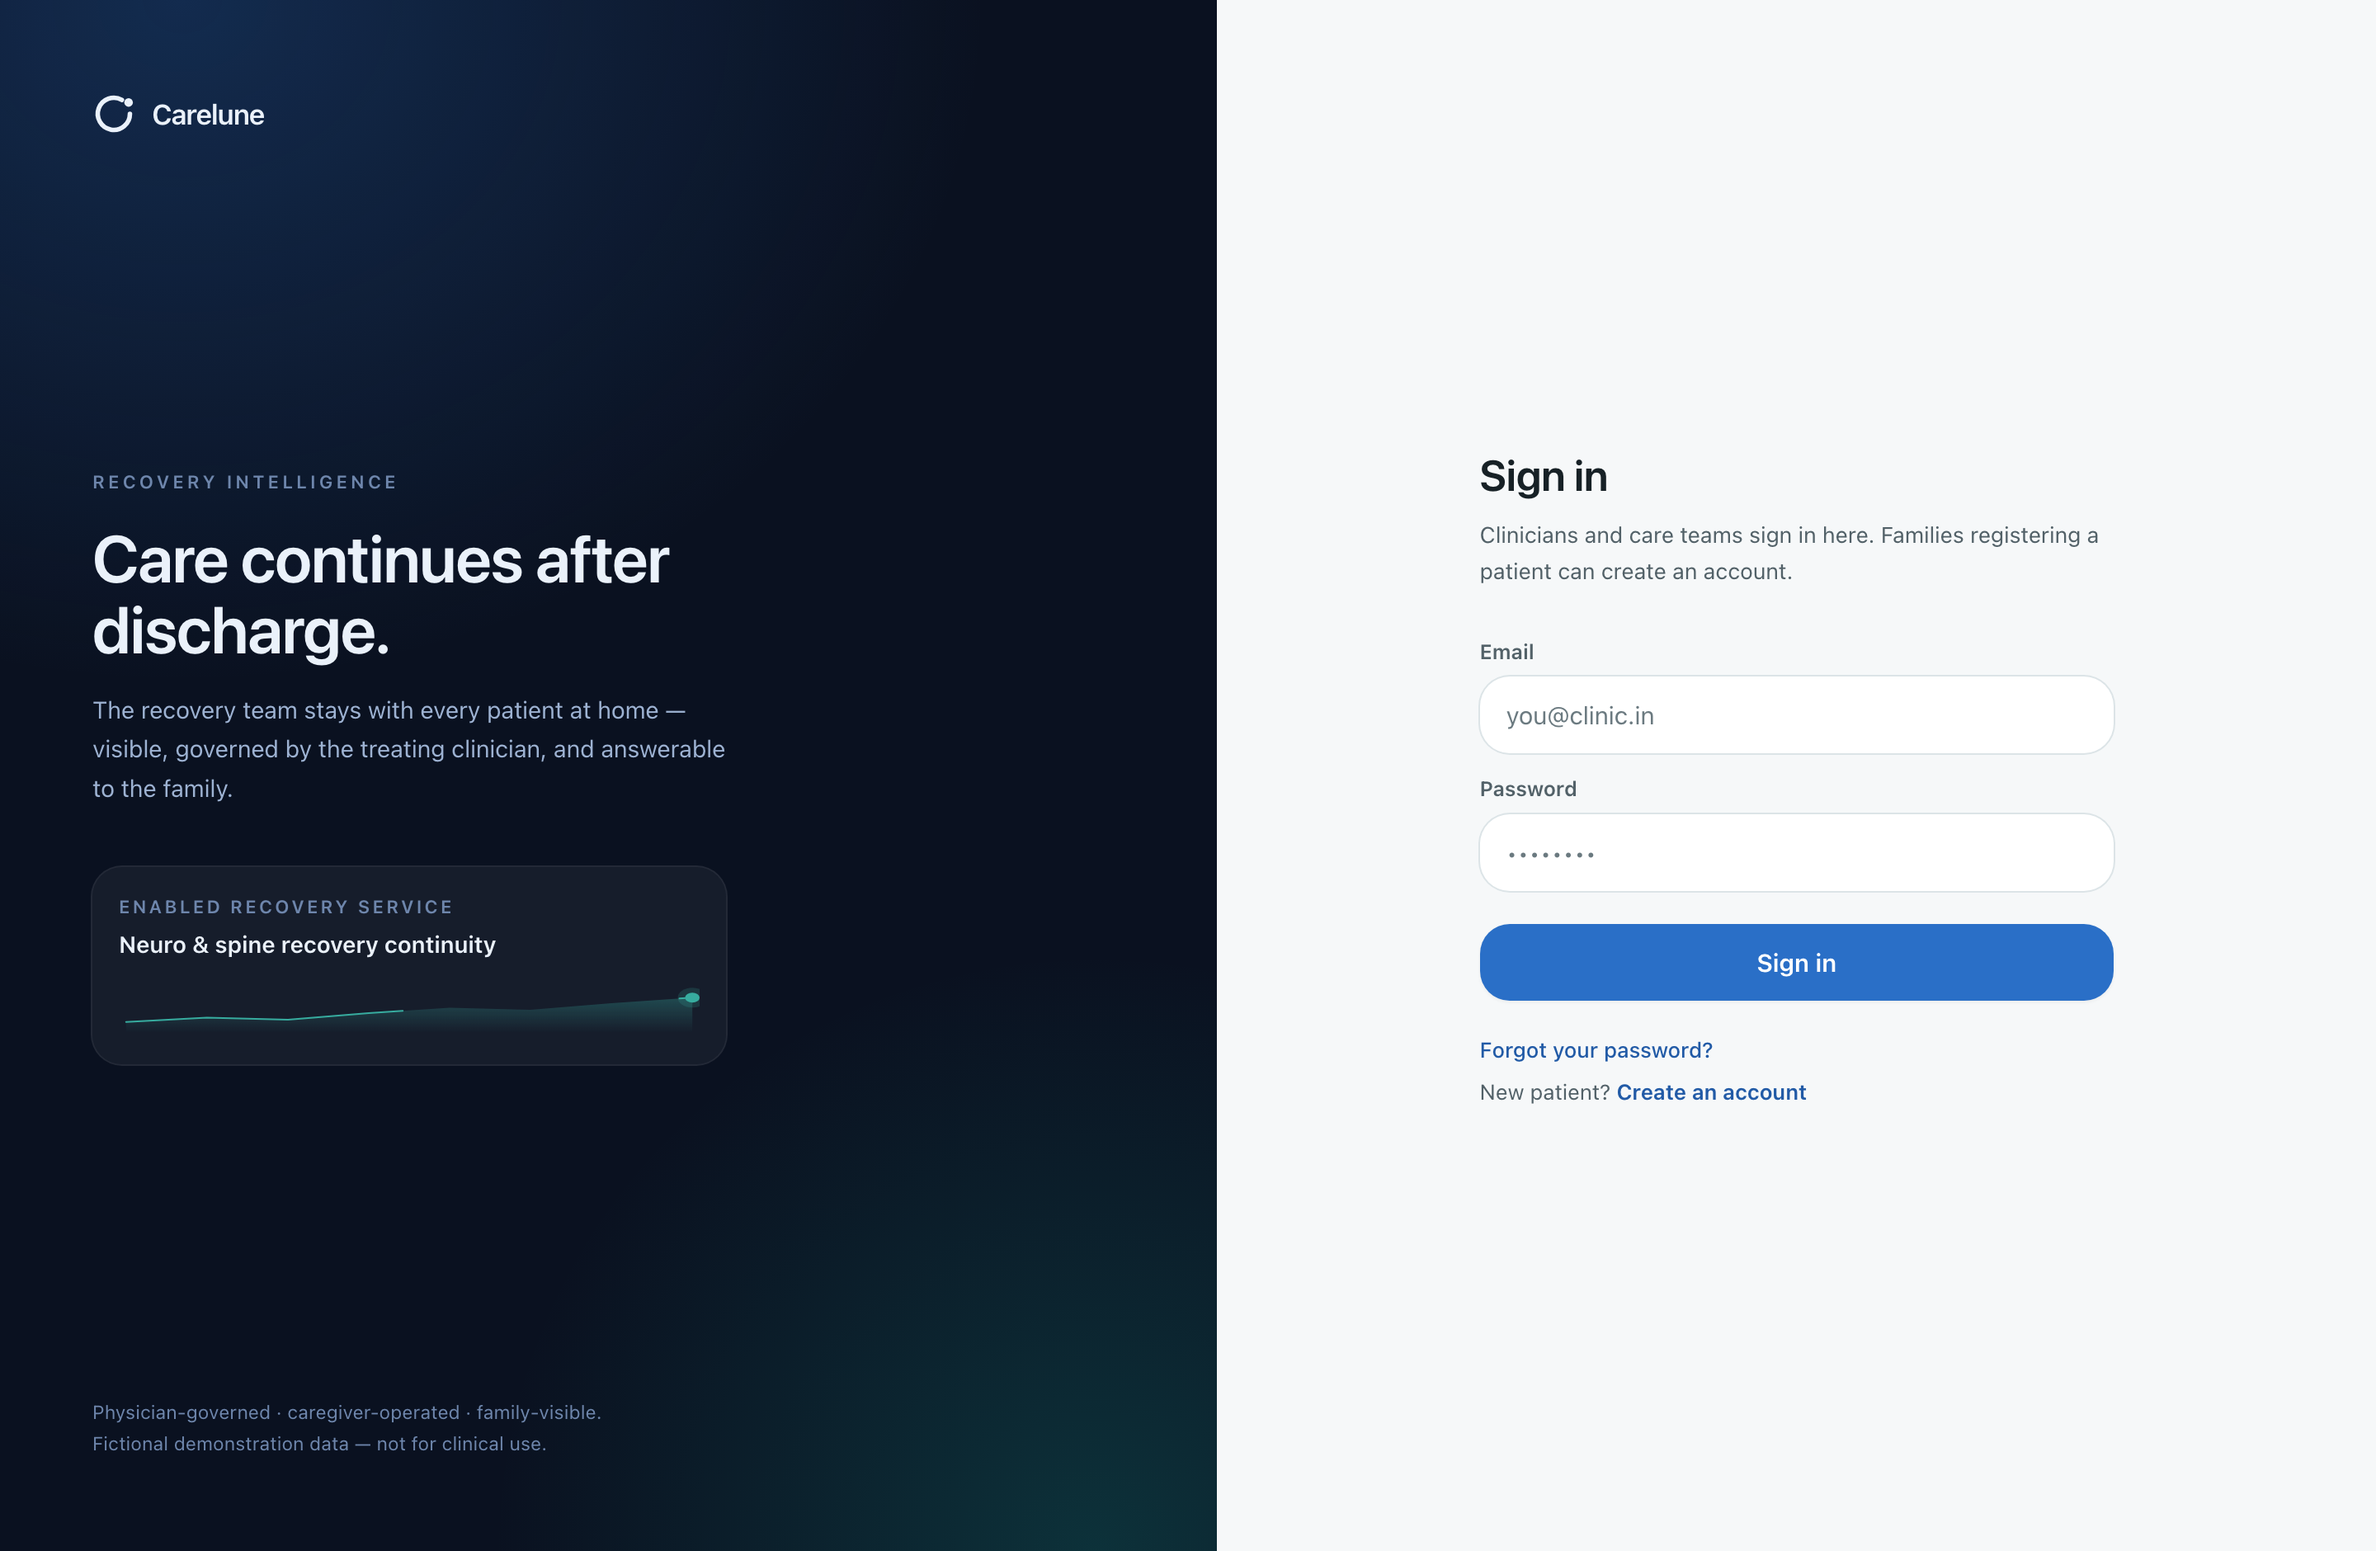
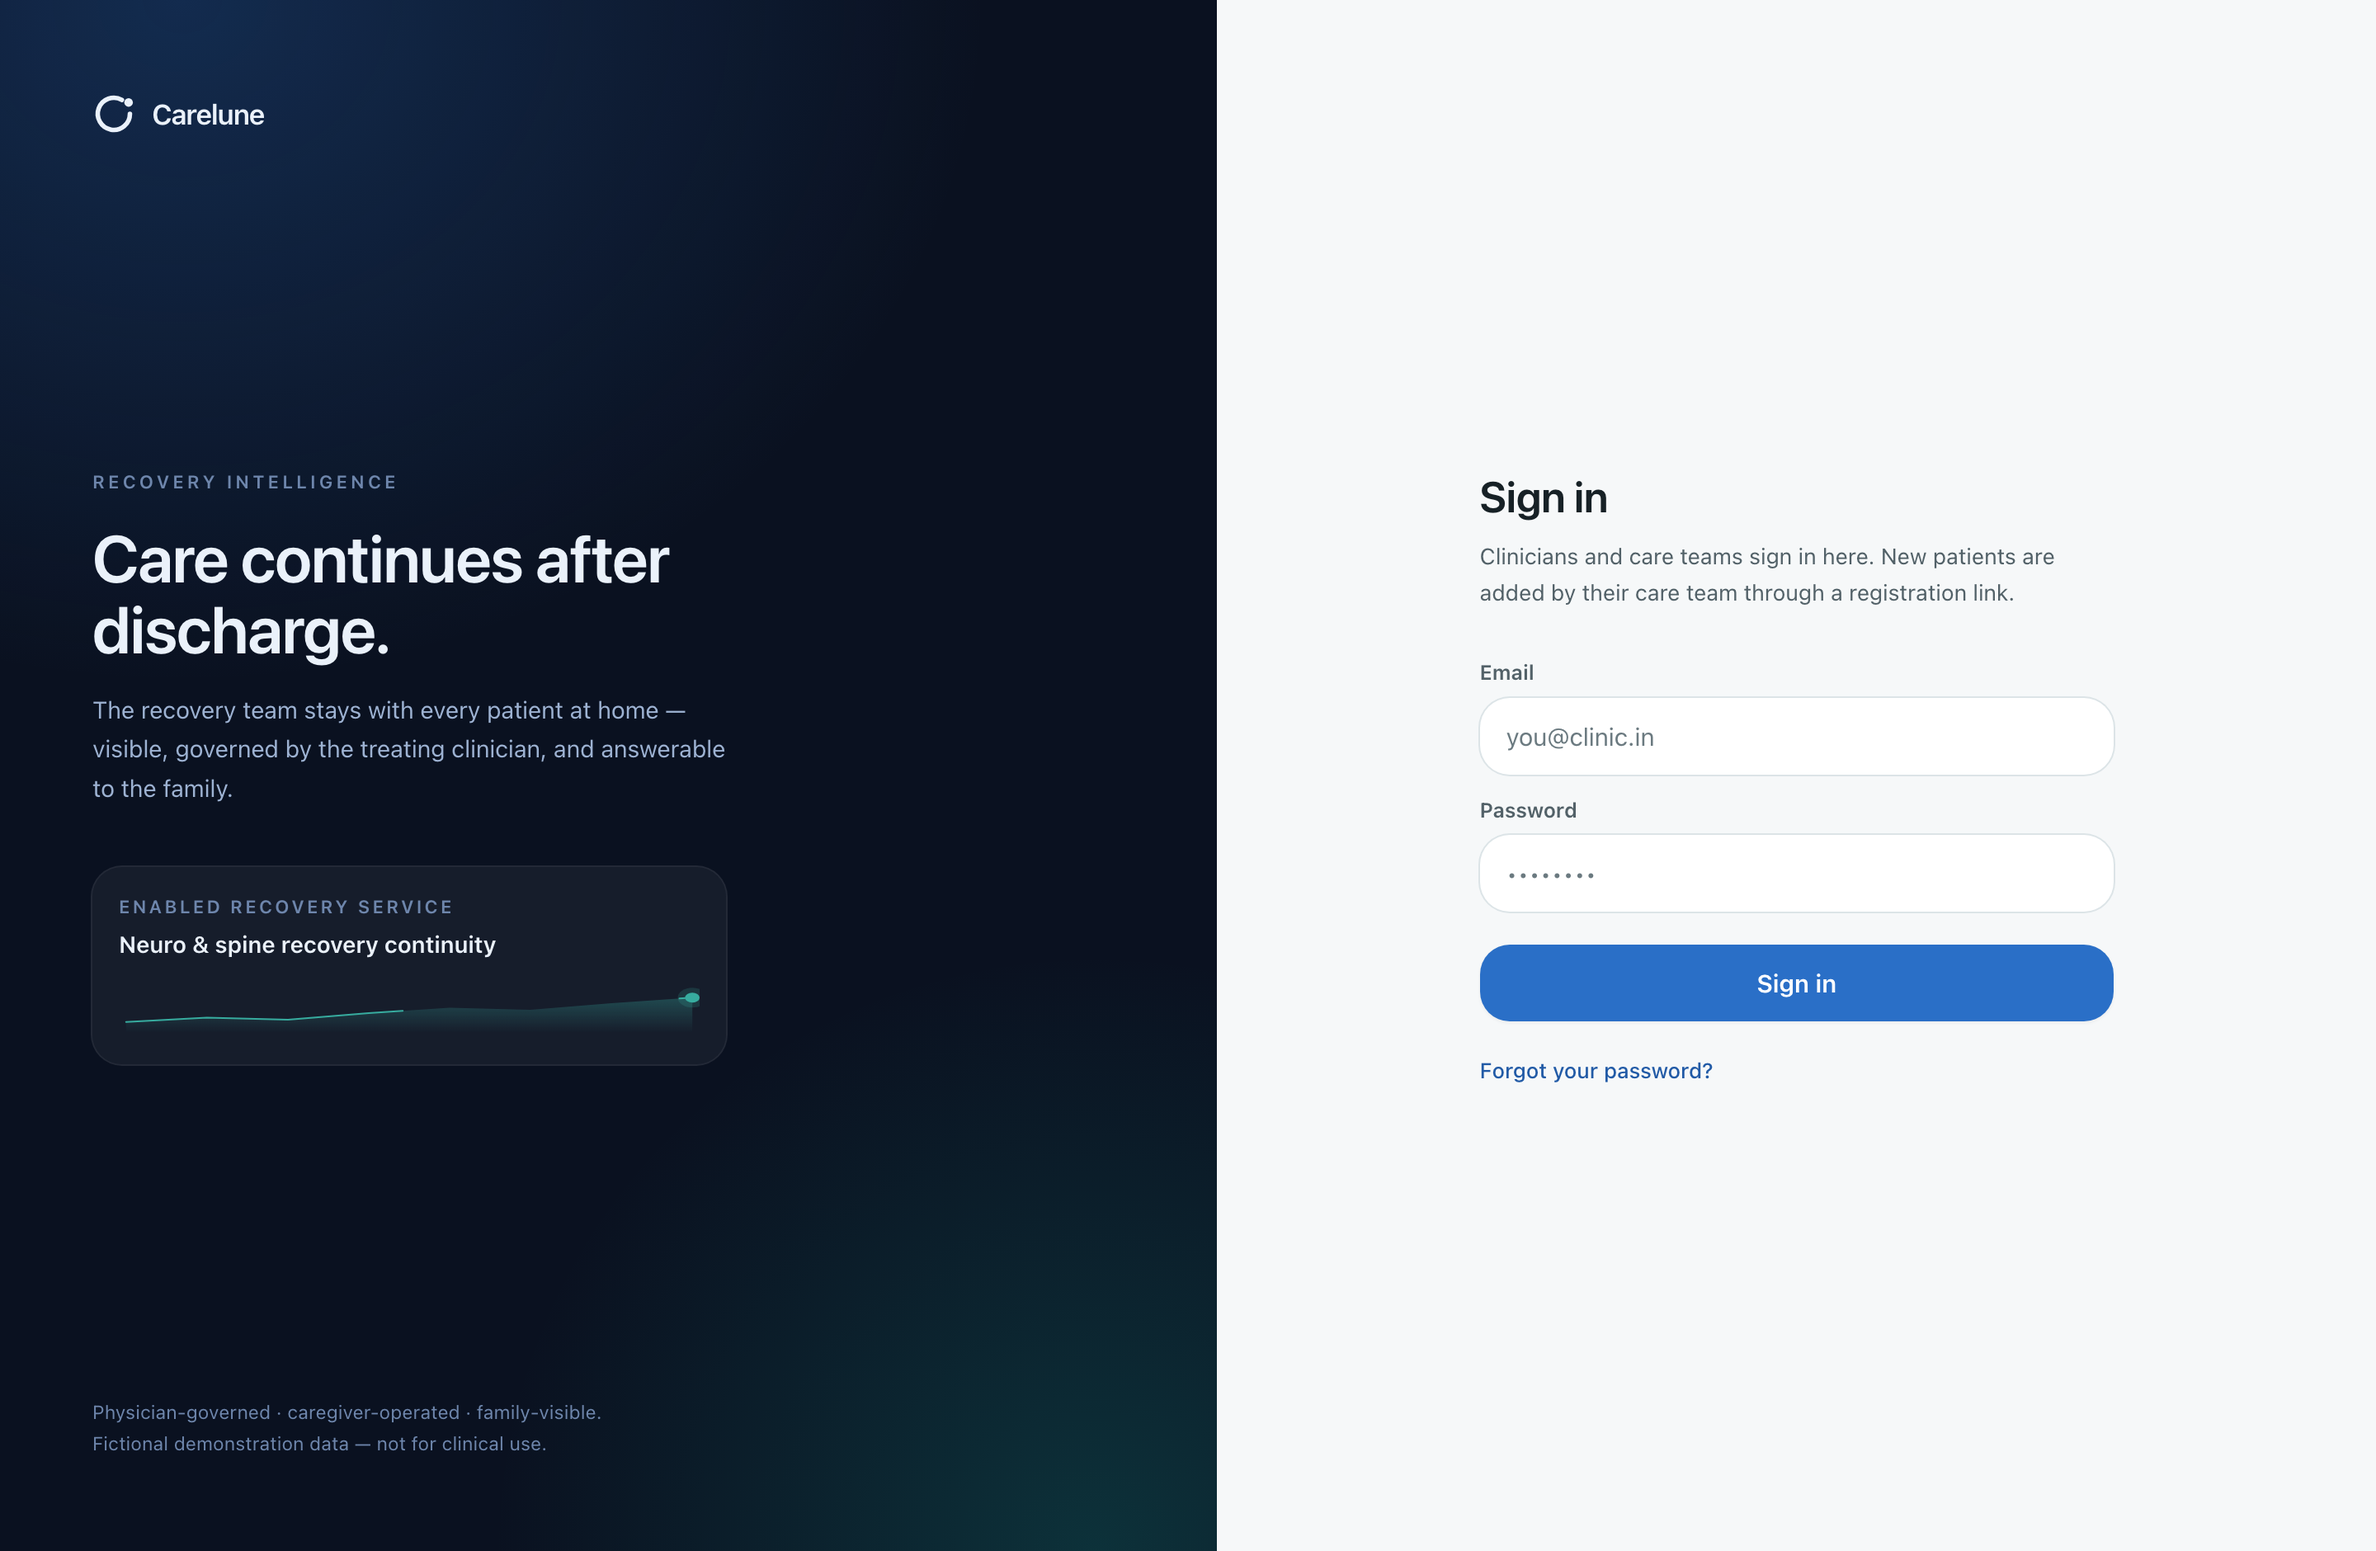
Login: remove self-signup; keep email password reset (invite-only account creation)
Accounts are created by the care team (registration link) or admin, not via public
sign-up. Drop the signup mode + 'Create an account' link from AuthScreen and update
the subtitle; keep 'Forgot your password?' (Supabase resetPasswordForEmail → set-new-
password flow) unchanged. tsc clean; vitest 18/18.

Changed region(s): [[0.625, 0.5862, 0.9062, 0.7096], [0.625, 0.2777, 0.875, 0.5553]]

diff --git a/src/auth/AuthScreen.tsx b/src/auth/AuthScreen.tsx
@@ -3,7 +3,7 @@ import { LoopMark } from "../components/ui";
 import { RecoveryTrajectory } from "../components/clinical";
 import { useAuth } from "./AuthProvider";
 
-type Mode = "signin" | "signup" | "reset";
+type Mode = "signin" | "reset";
 
 const FIELD =
   "w-full rounded-2xl bg-white px-4 py-3 text-[15px] text-ink ring-1 ring-line " +
@@ -112,7 +112,7 @@ function AuthShell({ children }: { children: ReactNode }) {
 }
 
 export function AuthScreen() {
-  const { signIn, signUp, sendPasswordReset } = useAuth();
+  const { signIn, sendPasswordReset } = useAuth();
   const [mode, setMode] = useState<Mode>("signin");
   const [email, setEmail] = useState("");
   const [password, setPassword] = useState("");
@@ -137,11 +137,6 @@ export function AuthScreen() {
       if (mode === "signin") {
         const { error } = await signIn(addr, password);
         if (error) setError(error);
-      } else if (mode === "signup") {
-        const { error, needsEmailConfirm } = await signUp(addr, password);
-        if (error) setError(error);
-        else if (needsEmailConfirm)
-          setNotice("Account created. Check your email to confirm, then sign in.");
       } else {
         const { error } = await sendPasswordReset(addr);
         if (error) setError(error);
@@ -152,9 +147,8 @@ export function AuthScreen() {
     }
   };
 
-  const title =
-    mode === "signin" ? "Sign in" : mode === "signup" ? "Create account" : "Reset password";
-  const cta = mode === "signin" ? "Sign in" : mode === "signup" ? "Create account" : "Send reset link";
+  const title = mode === "signin" ? "Sign in" : "Reset password";
+  const cta = mode === "signin" ? "Sign in" : "Send reset link";
 
   return (
     <AuthShell>
@@ -162,7 +156,7 @@ export function AuthScreen() {
       <p className="mt-1.5 text-[13.5px] leading-relaxed text-sage-600">
         {mode === "reset"
           ? "Enter your email and we'll send a link to set a new password."
-          : "Clinicians and care teams sign in here. Families registering a patient can create an account."}
+          : "Clinicians and care teams sign in here. New patients are added by their care team through a registration link."}
       </p>
 
       <form onSubmit={submit} className="mt-7 space-y-3">
@@ -186,7 +180,7 @@ export function AuthScreen() {
             <input
               id="password"
               type="password"
-              autoComplete={mode === "signup" ? "new-password" : "current-password"}
+              autoComplete="current-password"
               required
               minLength={6}
               value={password}
@@ -212,28 +206,11 @@ export function AuthScreen() {
       </form>
 
       <div className="mt-5 space-y-1.5 text-[13px]">
-        {mode === "signin" && (
-          <>
-            <button type="button" onClick={() => reset("reset")} className="tap block font-medium text-sky-700 hover:text-sky-800">
-              Forgot your password?
-            </button>
-            <p className="text-sage-600">
-              New patient?{" "}
-              <button type="button" onClick={() => reset("signup")} className="font-semibold text-sky-700 hover:text-sky-800">
-                Create an account
-              </button>
-            </p>
-          </>
-        )}
-        {mode === "signup" && (
-          <p className="text-sage-600">
-            Already have an account?{" "}
-            <button type="button" onClick={() => reset("signin")} className="font-semibold text-sky-700 hover:text-sky-800">
-              Sign in
-            </button>
-          </p>
-        )}
-        {mode === "reset" && (
+        {mode === "signin" ? (
+          <button type="button" onClick={() => reset("reset")} className="tap block font-medium text-sky-700 hover:text-sky-800">
+            Forgot your password?
+          </button>
+        ) : (
           <button type="button" onClick={() => reset("signin")} className="tap block font-medium text-sky-700 hover:text-sky-800">
             ← Back to sign in
           </button>
